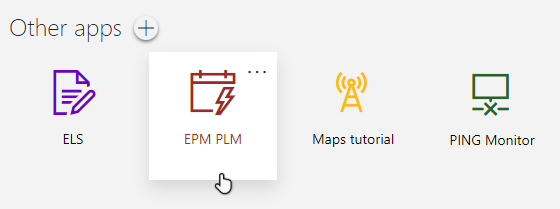
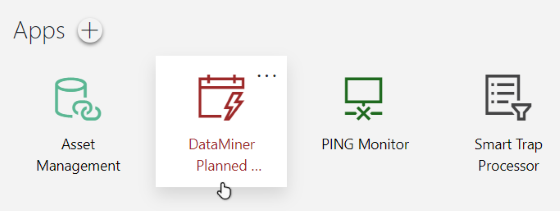
Update PLM tool

diff --git a/user-guide/Standard_Apps/Monitoring_Solutions/PLM_Tool/Installing_PLM_tool.md b/user-guide/Standard_Apps/Monitoring_Solutions/PLM_Tool/Installing_PLM_tool.md
@@ -12,7 +12,7 @@ uid: Installing_PLM_tool
 
 ## Deploying the PLM tool
 
-1. Look up the [*EPM PLM* package](https://catalog.dataminer.services/details/package/5064) in the DataMiner Catalog.
+1. Look up the [*DataMiner Planned Maintenance Tool* package](https://catalog.dataminer.services/details/package/6010) in the DataMiner Catalog.
 
 1. Click the *Deploy* button.
 
@@ -20,23 +20,23 @@ uid: Installing_PLM_tool
 
    If your DataMiner System does not contain a PLM element yet, a new PLM element is automatically created when the package is installed.
 
-   Once the package has been installed, you can access the *EPM PLM* low-code app at `http(s)://[DMA name]/root`.
+   Once the package has been installed, you can access the *DataMiner Planned Maintenance Tool* low-code app at `http(s)://[DMA name]/root`.
 
    ![EPL PLM app](~/user-guide/images/EPM_PLM_app.png)
 
 > [!NOTE]
-> To update the Planned Maintenance tool, redeploy the [*EPM PLM* package](https://catalog.dataminer.services/details/package/5064). The tool will be updated, but no new PLM element will be created, as one should already exist in your DMS.
+> To update the Planned Maintenance tool, redeploy the [*DataMiner Planned Maintenance Tool* package](https://catalog.dataminer.services/details/package/6010). The tool will be updated, but no new PLM element will be created, as one should already exist in your DMS.
 
-## Configuring the EPM PLM element
+## Configuring the 'Planned Maintenance Tool' element
 
-1. In Cube, locate the *EPM PLM* element under the *EPM PLM* view.
+1. In Cube, locate the *Planned Maintenance Tool* element under the *DataMiner Planned Maintenance* view.
 
    ![PLM_Element](~/user-guide/images/PLM_Element.png)
 
    > [!NOTE]
    > Optionally, you can rename the element and view, and change their location in the surveyor.
 
-1. Click the *EPM PLM* element and navigate to *Data > Configuration*.
+1. Click the *Planned Maintenance Tool* element and navigate to *Data > Configuration*.
 
 1. Adjust the following settings based on your preferences:
 

diff --git a/user-guide/Standard_Apps/Monitoring_Solutions/PLM_Tool/Using_PLM_Tool/The_PLM_user_interface.md b/user-guide/Standard_Apps/Monitoring_Solutions/PLM_Tool/Using_PLM_Tool/The_PLM_user_interface.md
@@ -12,9 +12,9 @@ To access the PLM low-code app:
 
 1. Sign in using your DataMiner credentials.
 
-1. Select the *EPM PLM* app.
+1. Select the *DataMiner Planned Maintenance Tool* app.
 
-   ![EPM PLM app](~/user-guide/images/EPM_PLM_app.png)
+   ![PLM app](~/user-guide/images/EPM_PLM_app.png)
 
 ## The PLM tool sidebar
 
